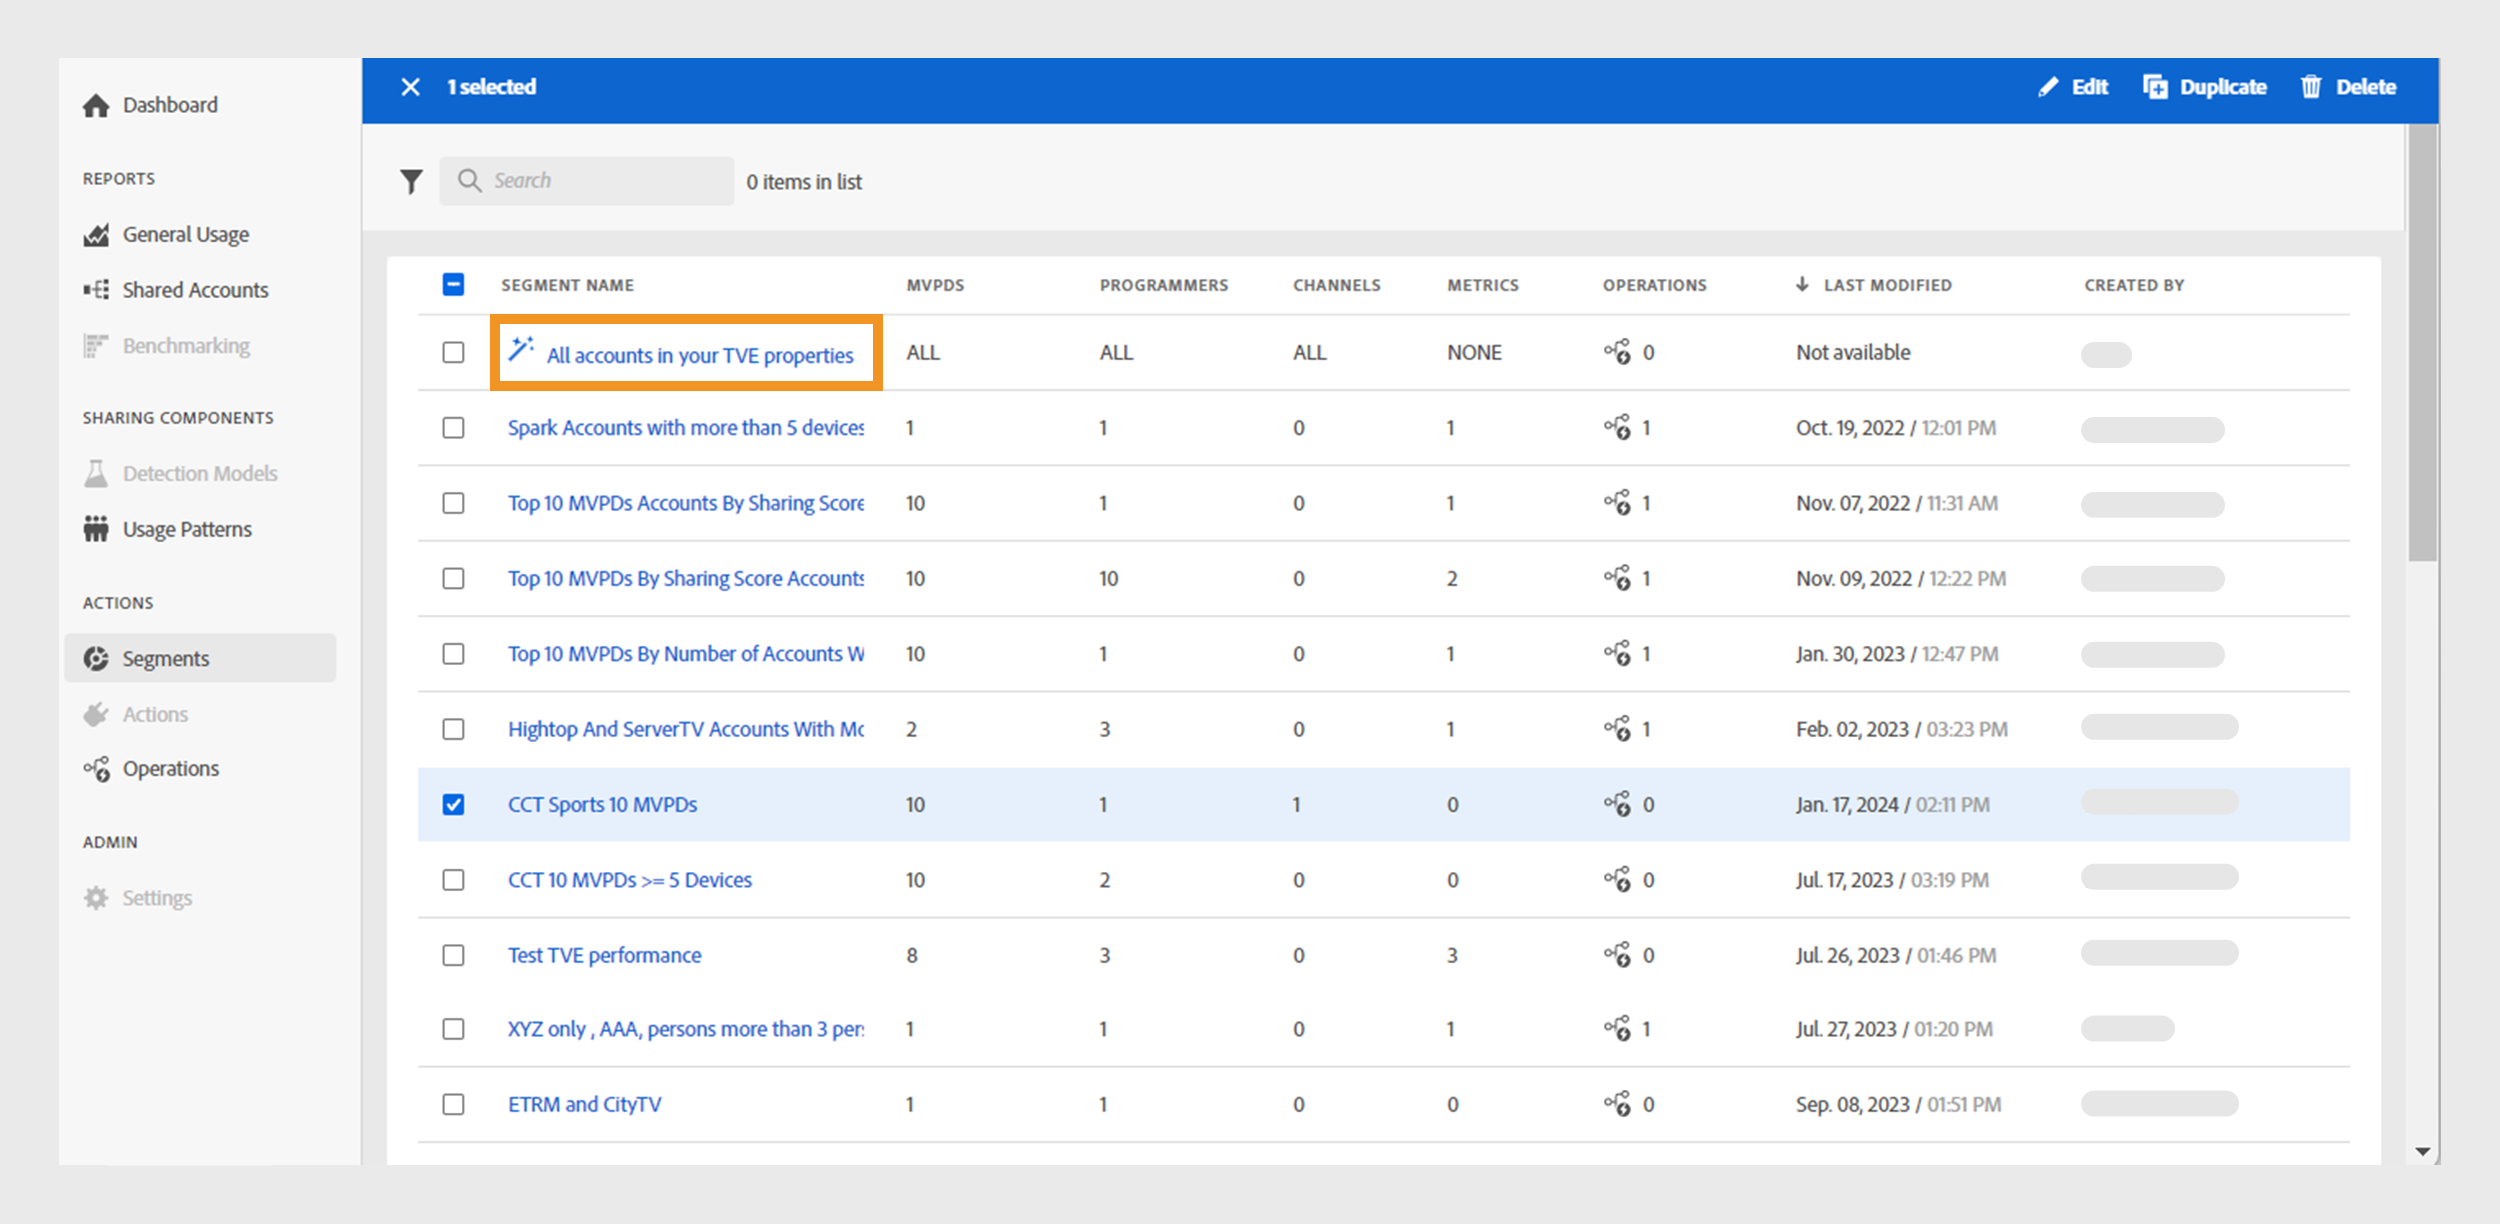
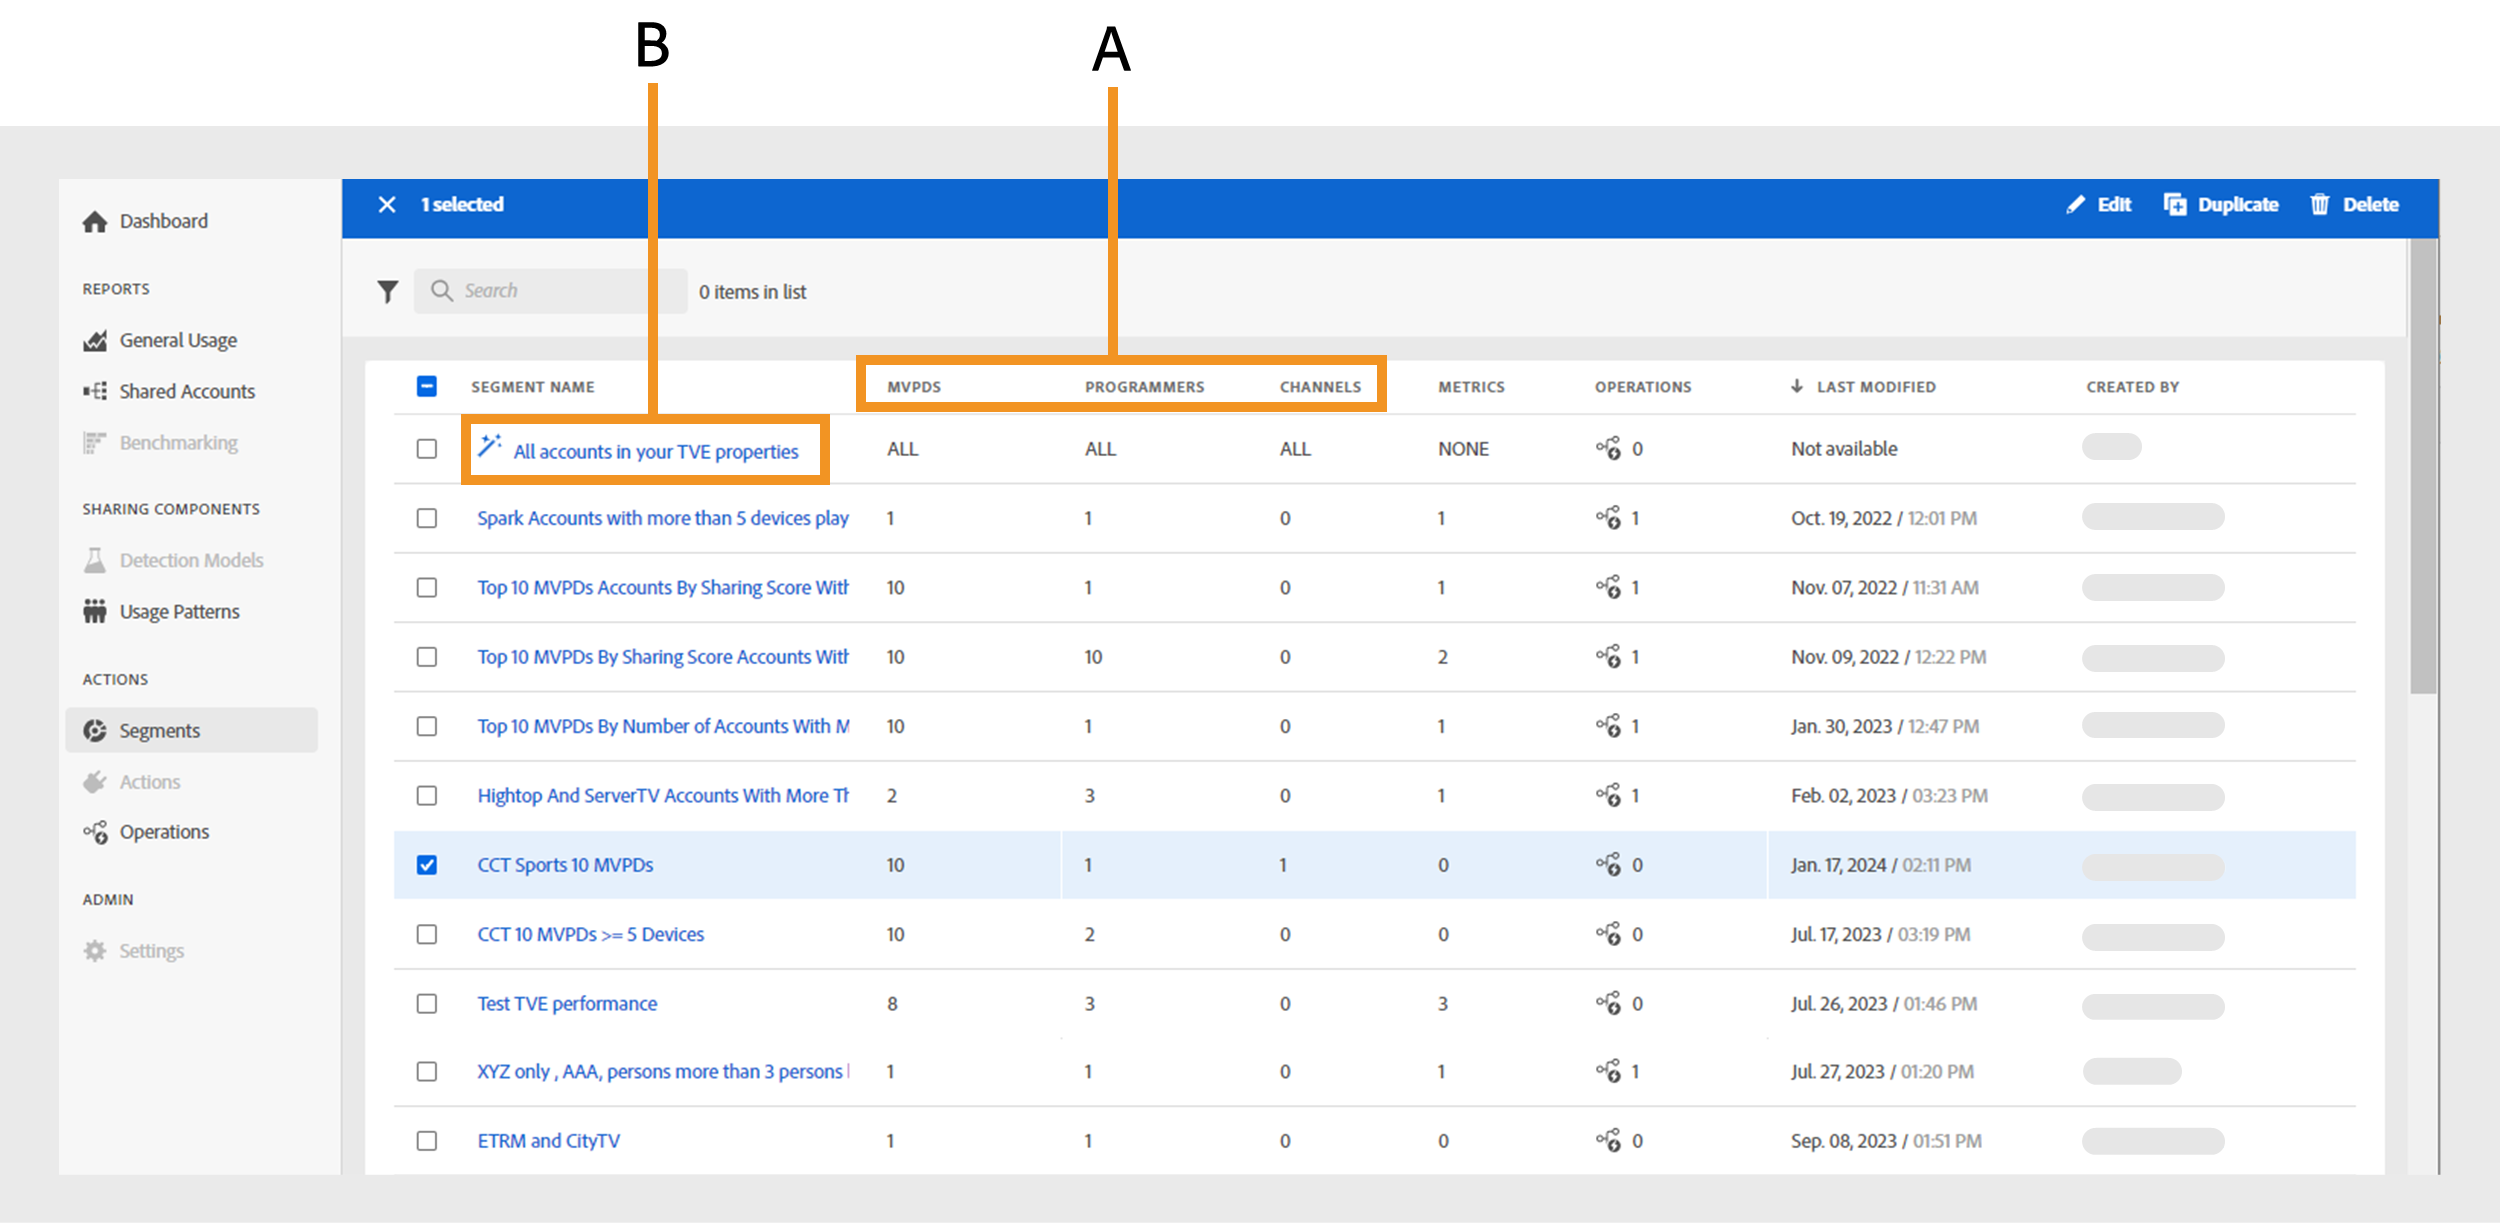
v1.2 D2C updates

diff --git a/help/accountiq/work-with-segments.md b/help/accountiq/work-with-segments.md
@@ -18,7 +18,7 @@ description: Understanding and using segments. Learn how to create and manage a 
    >
    >All procedures described in this guide are based on custom segments. However, the concepts remain the same for default and custom segments.
 
-When you go to the **Actions** and select the **[!UICONTROL Segments]** tab in the left panel, a list of segments available in the system is displayed. The segments page lets you quickly assess key details about each segment in a tabular format. The details include the segment name, the number of [video categories](product-concepts.md##video-category-def), metrics, [operations](product-concepts.md#operation-def) using the current segment, last modified date and time, as well as the name of the segment creator. 
+When you go to the **Actions** and select the **[!UICONTROL Segments]** tab in the left panel, a list of segments available in the system is displayed. The segments page lets you quickly assess key details about each segment in a tabular format. The details include the segment name, the number of [video categories](product-concepts.md#video-category-def), metrics, [operations](product-concepts.md#operation-def) using the current segment, last modified date and time, as well as the name of the segment creator. 
 
 You can perform the following functions with segments:
 
@@ -34,13 +34,13 @@ The process of creating a new segment are similar for D2C and TV Everywhere. The
 
 To build a segment and analyze subscriber's sharing behavior, select **[!UICONTROL Create new segment]** at the upper-right.
 
+   ![Create new segment](assets/d2c-create-new-segment.png)
+
+   *Create new segment*
+
    >[!NOTE]
    >
    >The video categories shown in the image, such as **Regions** and **Content Types** are just examples. When you log in to Account IQ, the labels will display your company's specific video categories.
-
-   ![Create new segment](assets/create-new-segment.png)
-
-   *Create new segment* <!--paramount img-->
 
 It opens a **New segment** page, which includes the following elements:
 
@@ -210,17 +210,17 @@ You can select a segment from the segments list and then perform the following a
 * [Duplicate a segment](#duplicate-segment)
 * [Delete a segment](#delete-segment)
 
->[!NOTE]
->
->The video categories shown in this section, such as **MVPDs**, **Programmers**, and **Channels** represent the labels used in the TV Everywhere version of Account IQ. If you're logged in as a D2C service, the labels will display your company's specific video categories.
-
 ![Edit, duplicate, or delete a segment](assets/manage-segments-list.png)
 
 *Select a segment to edit, duplicate, or delete*
 
-   >[!NOTE]
-   >
-   >You cannot edit, duplicate, or delete the default segment named **All accounts in your properties**.
+**A.** [Video categories](product-concepts.md#video-category-def) **B.** Default segment
+
+>[!NOTE]
+>
+>The video categories shown in this section, such as **MVPDs**, **Programmers**, and **Channels** represent the labels used in the TV Everywhere version of Account IQ. If you're logged in as a D2C service, the labels will display your company's specific video categories.
+
+You cannot edit, duplicate, or delete the default segment named **All accounts in your properties**.
 
 ### Edit a segment {#edit-segment}
 

diff --git a/help/accountiq/data-panels.md b/help/accountiq/data-panels.md
@@ -23,14 +23,14 @@ The Aggregated Sharing Score panel provides a top line readout summarizing the q
 
 The metrics help you understand the magnitude (ranging from low, medium, high to abnormal) of credential sharing by your subscribers, hence providing a measure of the need to act upon it.
 
->[!NOTE]
->
-> The blue indicator in the **Average sharing score - aggregated for the current segment** serves different purposes for D2C services compared to TV Everywhere. For D2C, it represents the **Service Average Index** as shown below. If you log in as a Programmer or MVPD, this label changes to **Industry Average Index**.  
-
 ![](assets/aggregate-sharing-score.png)
 
 
 *Average sharing score panel - aggregated for the current segment*
+
+>[!NOTE]
+>
+> The blue indicator in the **Average sharing score - aggregated for the current segment** serves different purposes for D2C services compared to TV Everywhere. For D2C, it represents the **Service Average Index** as shown below. If you log in as a Programmer or MVPD, this label changes to **Industry Average Index**.  
 
 The following metrics are components of the Average Sharing Score.
 

diff --git a/help/accountiq/segments-timeinterval.md b/help/accountiq/segments-timeinterval.md
@@ -57,6 +57,13 @@ This allows you to define your problem statement as "Subscribers of MVPD A who w
 
 ## Segment summary {#segment-summary}
 
+
+[Regions and content types](product-concepts.md#video-category-def) in segment refer to the metadata labels associated with the video streams watched by shared accounts represented in account sharing reports. 
+
+>[!NOTE]
+>
+>The video categories shown in the image, such as **regions** and **content types** are just examples. When you log in to Account IQ, the labels will display your company's specific video categories.
+
 Use <img alt= "expand segment summary" src="./assets/expand-segment-summary.svg" width="25"> icon to view the detailed segment summary. It also presents information on the number of subscriber accounts and their playback requests within the chosen time period.
 
 ![](assets/segment-panel-programmers-mvpd.png){align="left"}
